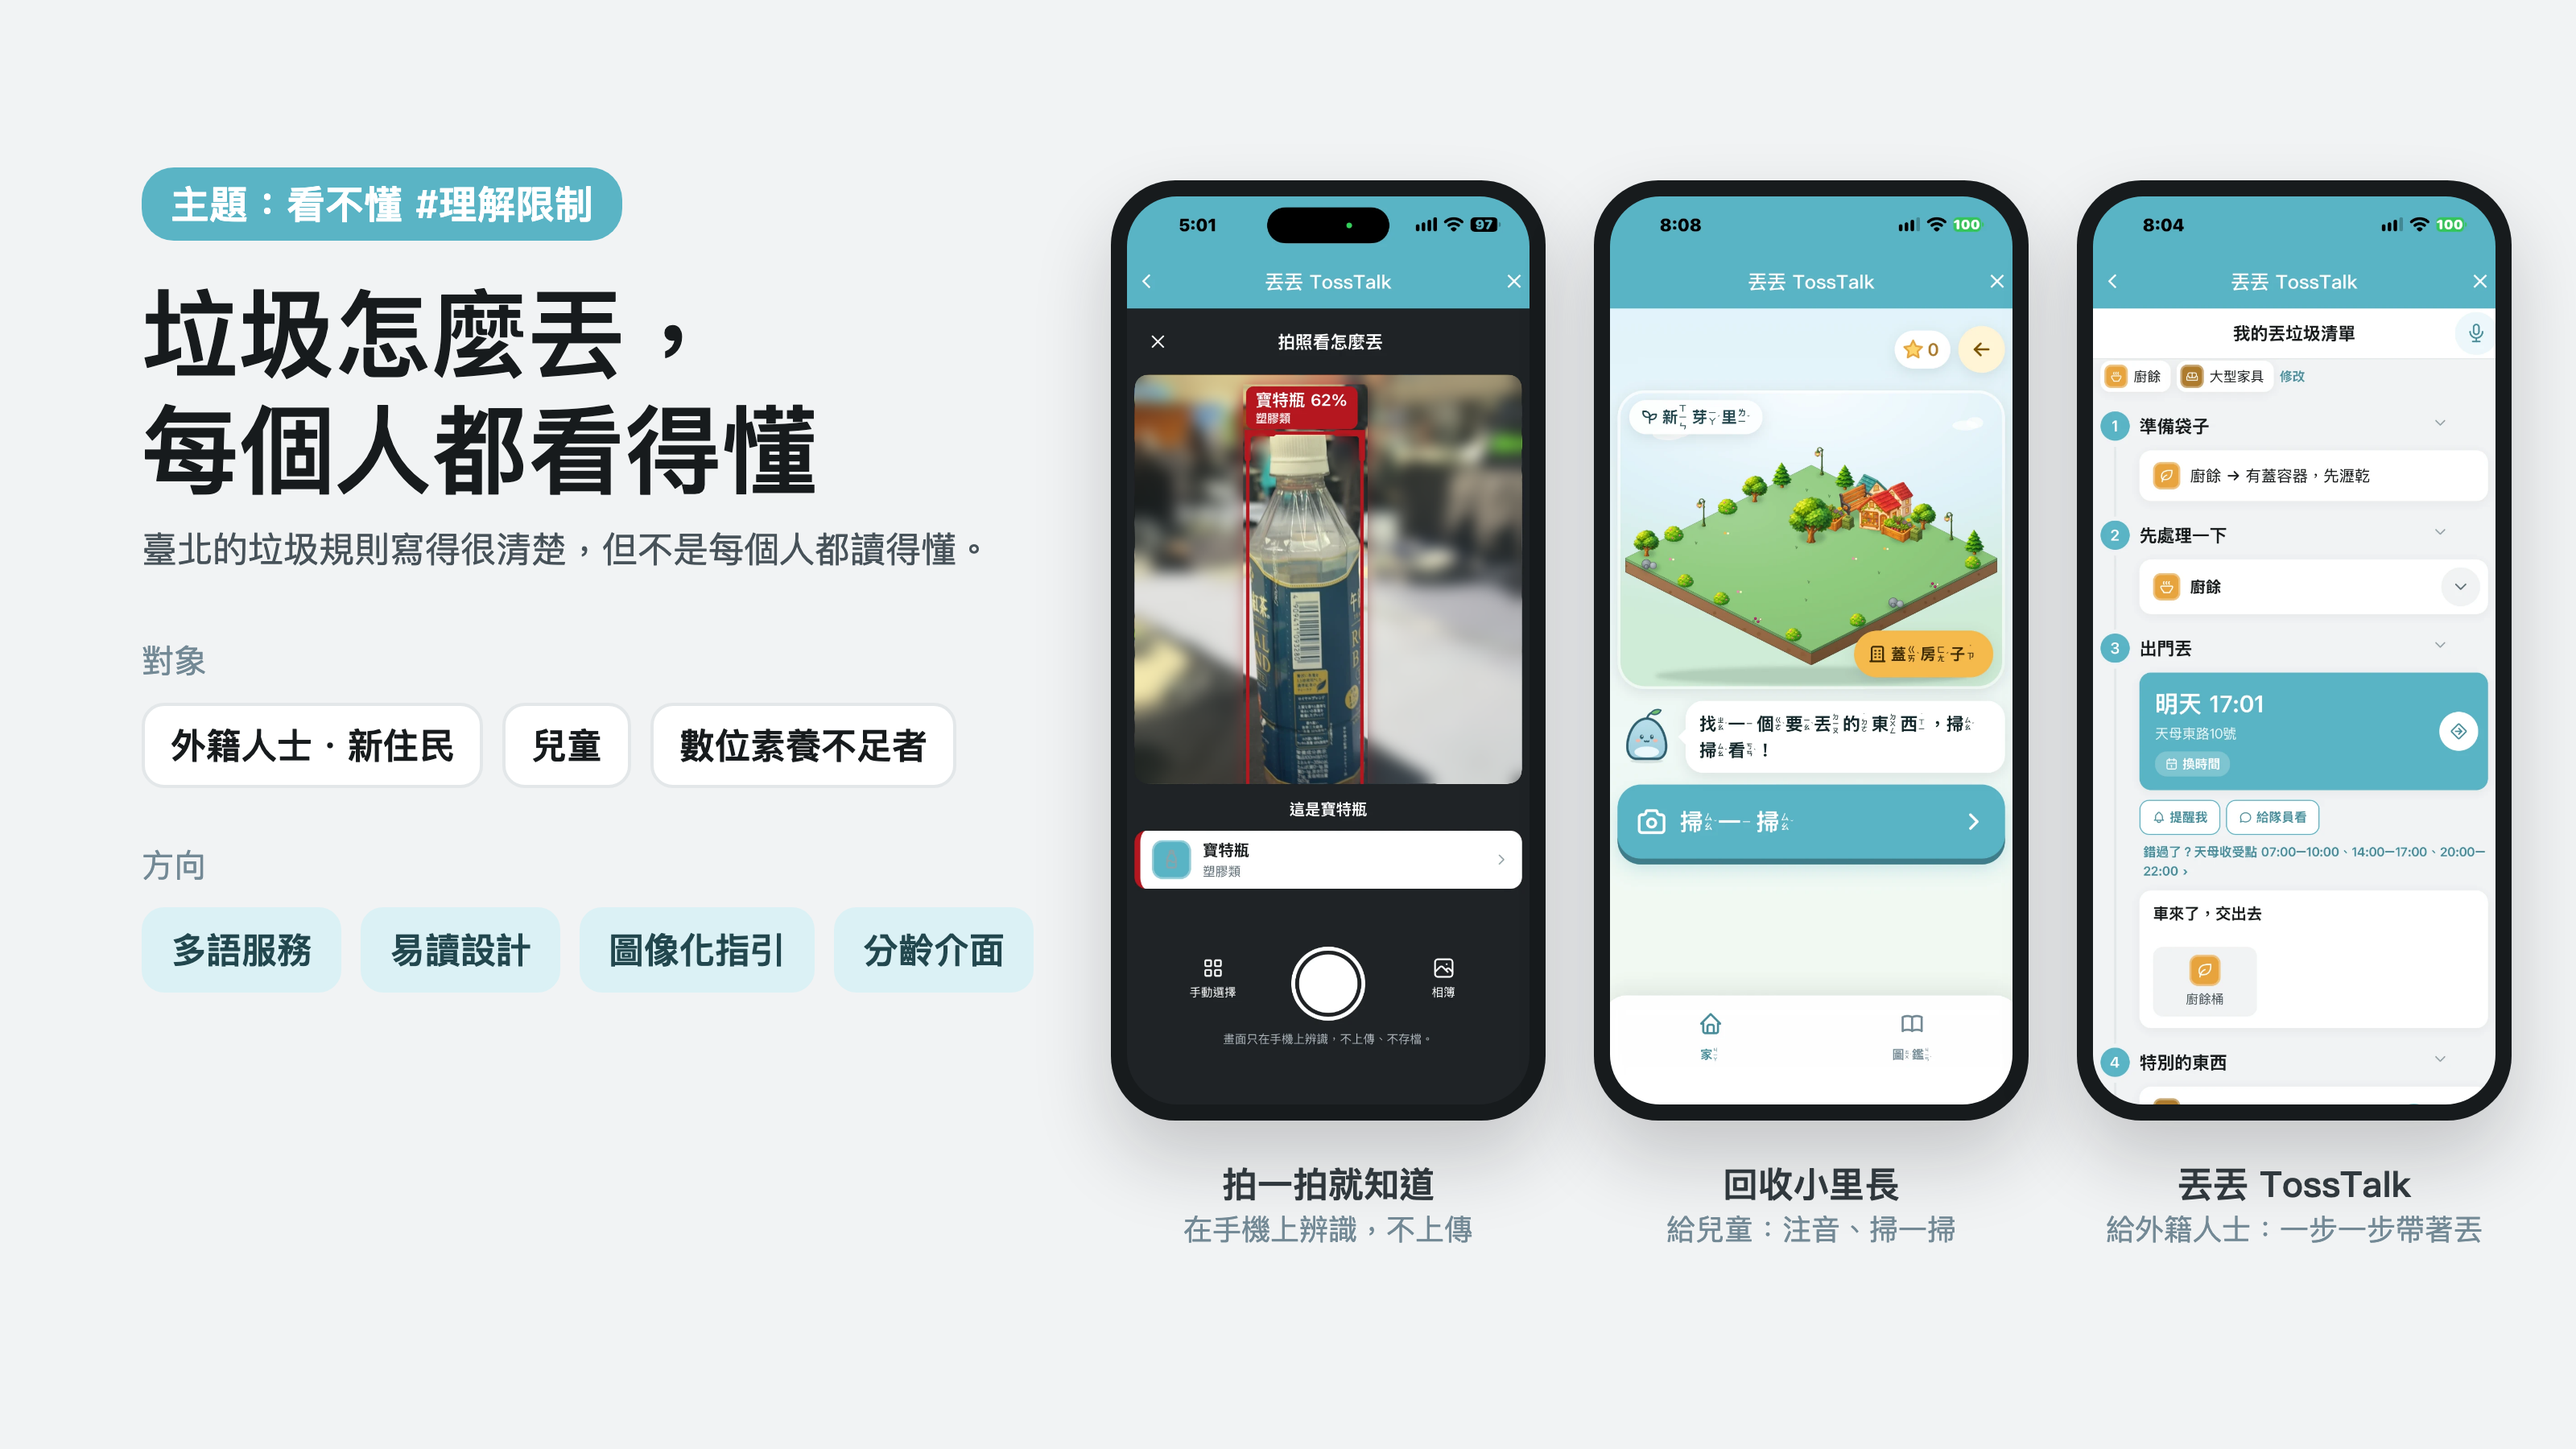
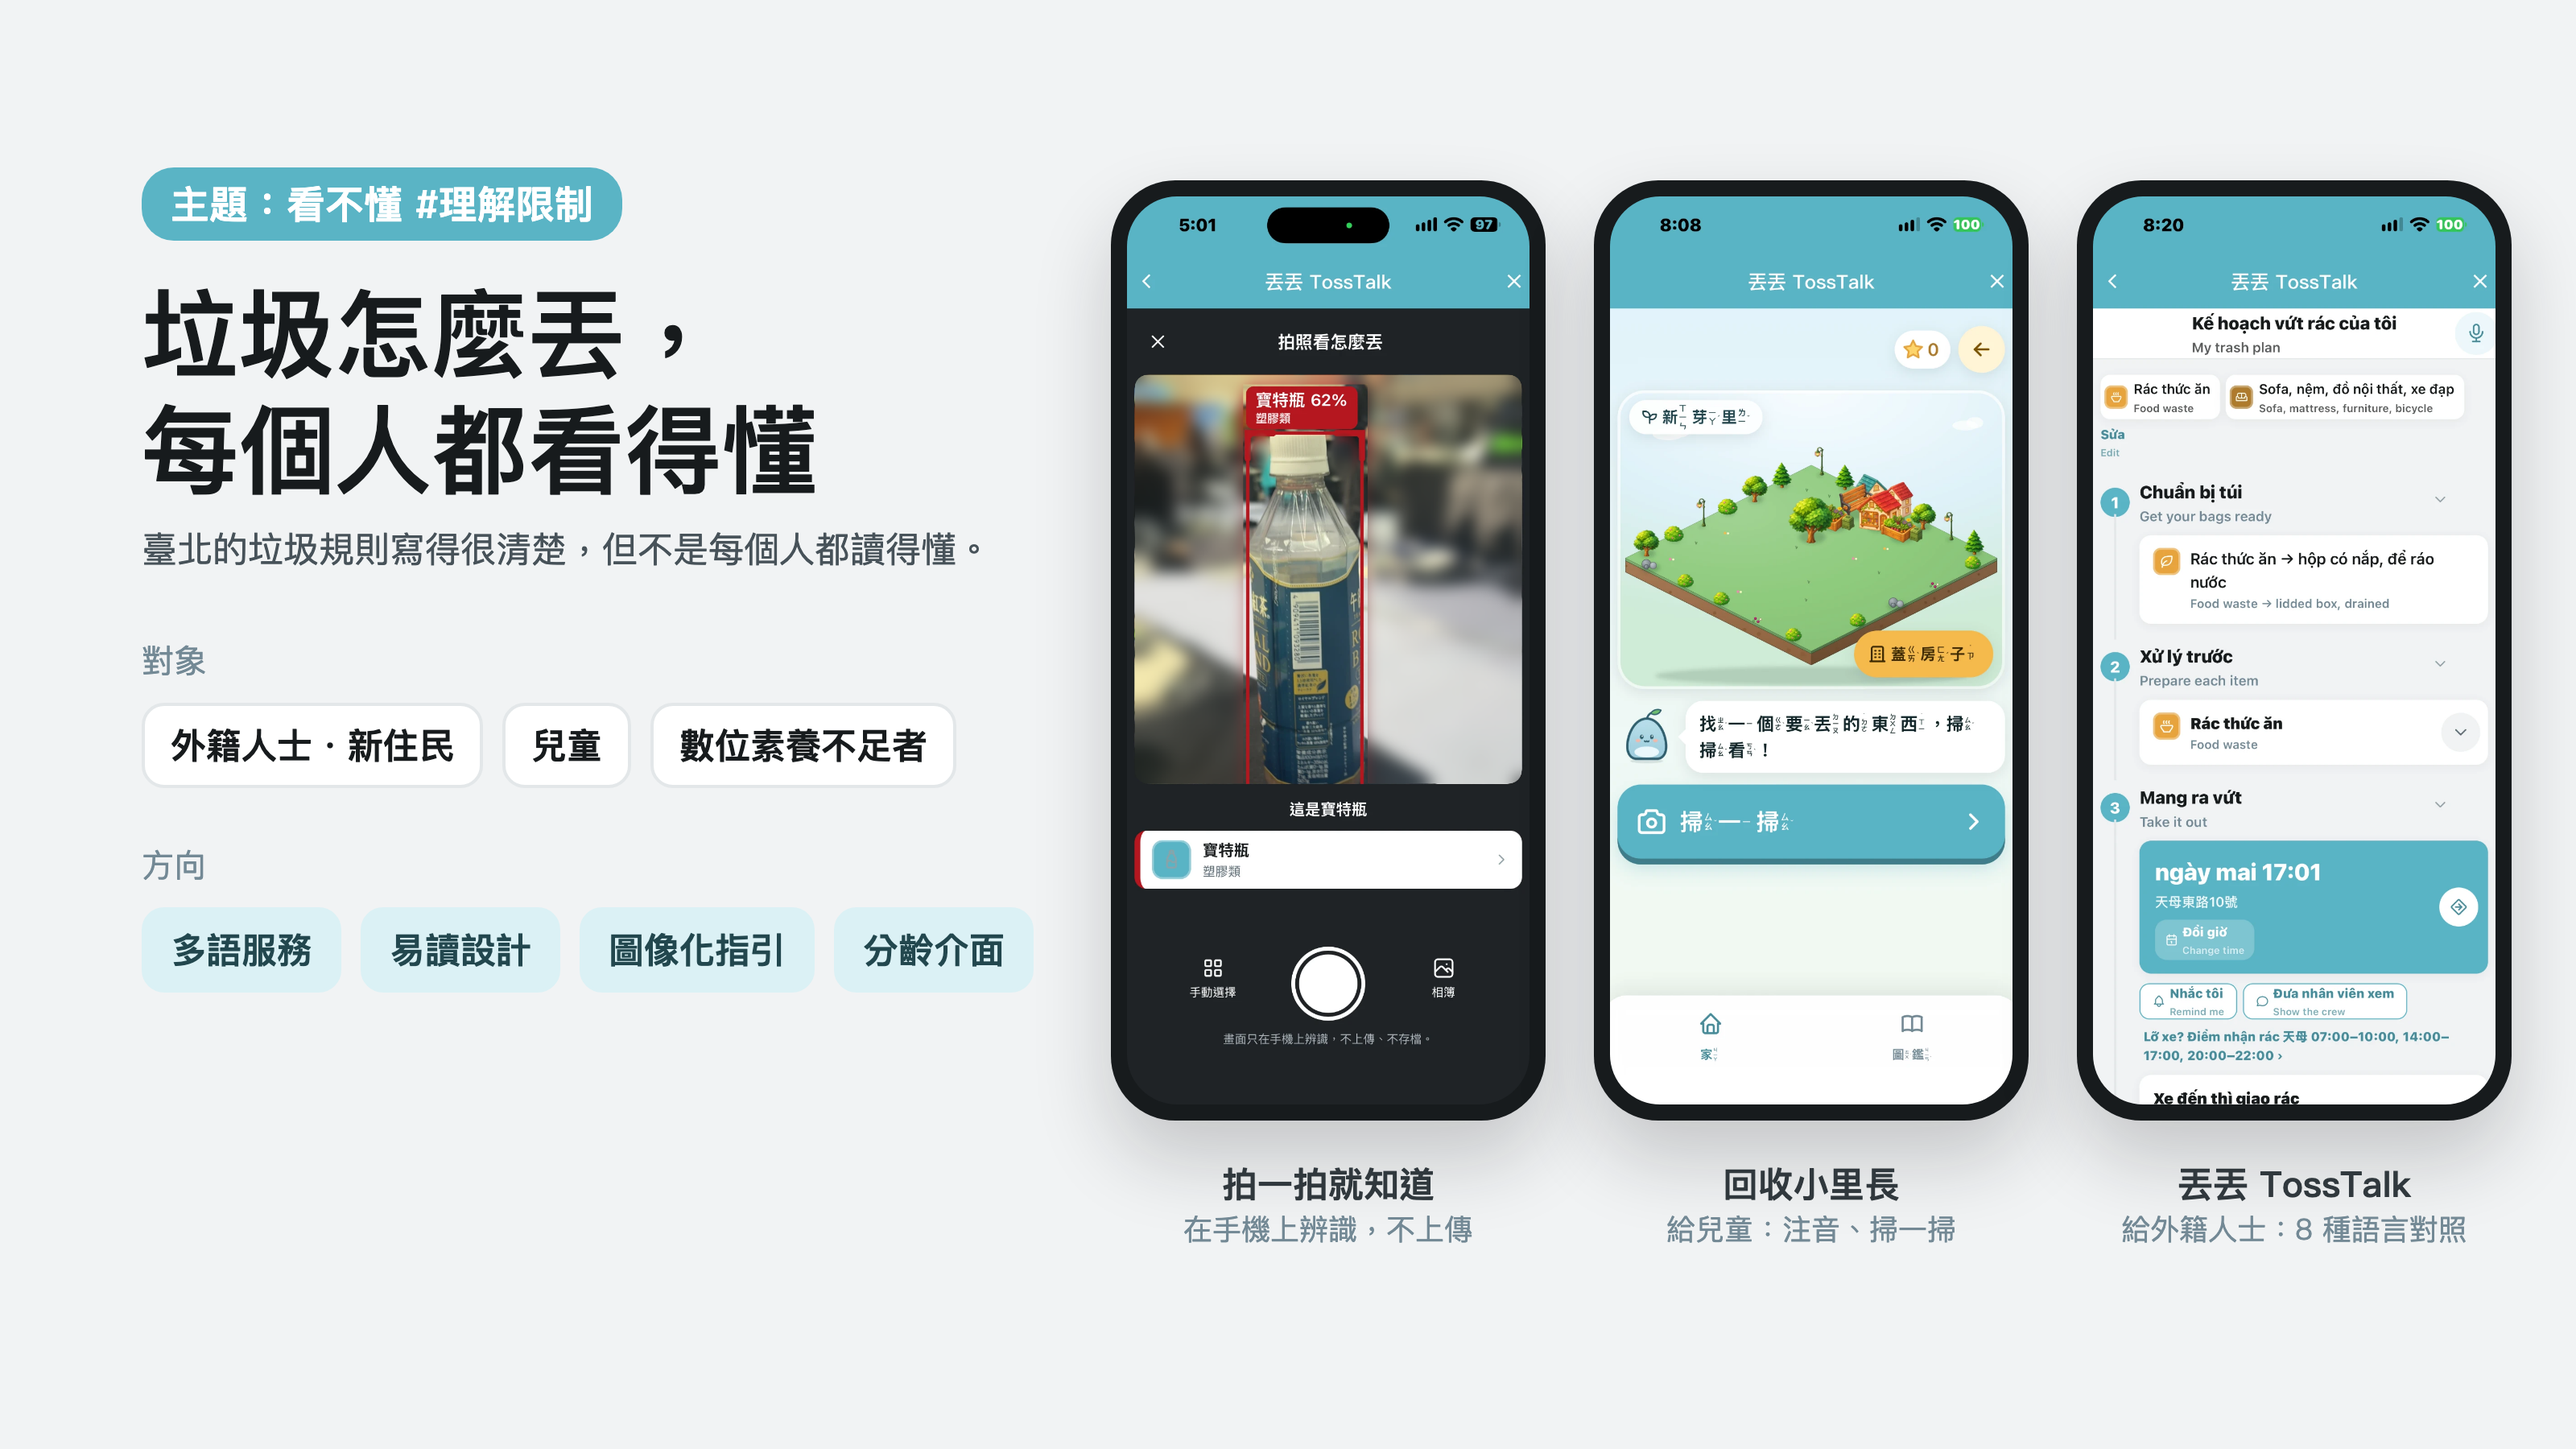
docs(readme): 丟丟 shown in Vietnamese with English underneath
The overview's 丟丟 phone is now an iPhone screenshot of the step list in
Vietnamese with English as the second language, to show who it is for.
Caption: 給外籍人士：8 種語言對照.

Changed region(s): [[0.8125, 0.2178, 0.9688, 0.7778], [0.8125, 0.84, 0.9688, 0.8711]]

diff --git a/docs/readme/overview.html b/docs/readme/overview.html
@@ -39,7 +39,7 @@ h1 { margin: 22px 0 10px; font-size: 60px; line-height: 1.2; font-weight: 600; }
     <div class="phone p3"><img src="screen-diudiu.png" alt=""></div>
     <div class="cap c1">拍一拍就知道<span>在手機上辨識，不上傳</span></div>
     <div class="cap c2">回收小里長<span>給兒童：注音、掃一掃</span></div>
-    <div class="cap c3">丟丟 TossTalk<span>給外籍人士：一步一步帶著丟</span></div>
+    <div class="cap c3">丟丟 TossTalk<span>給外籍人士：8 種語言對照</span></div>
   </div>
 </div>
 </body></html>
